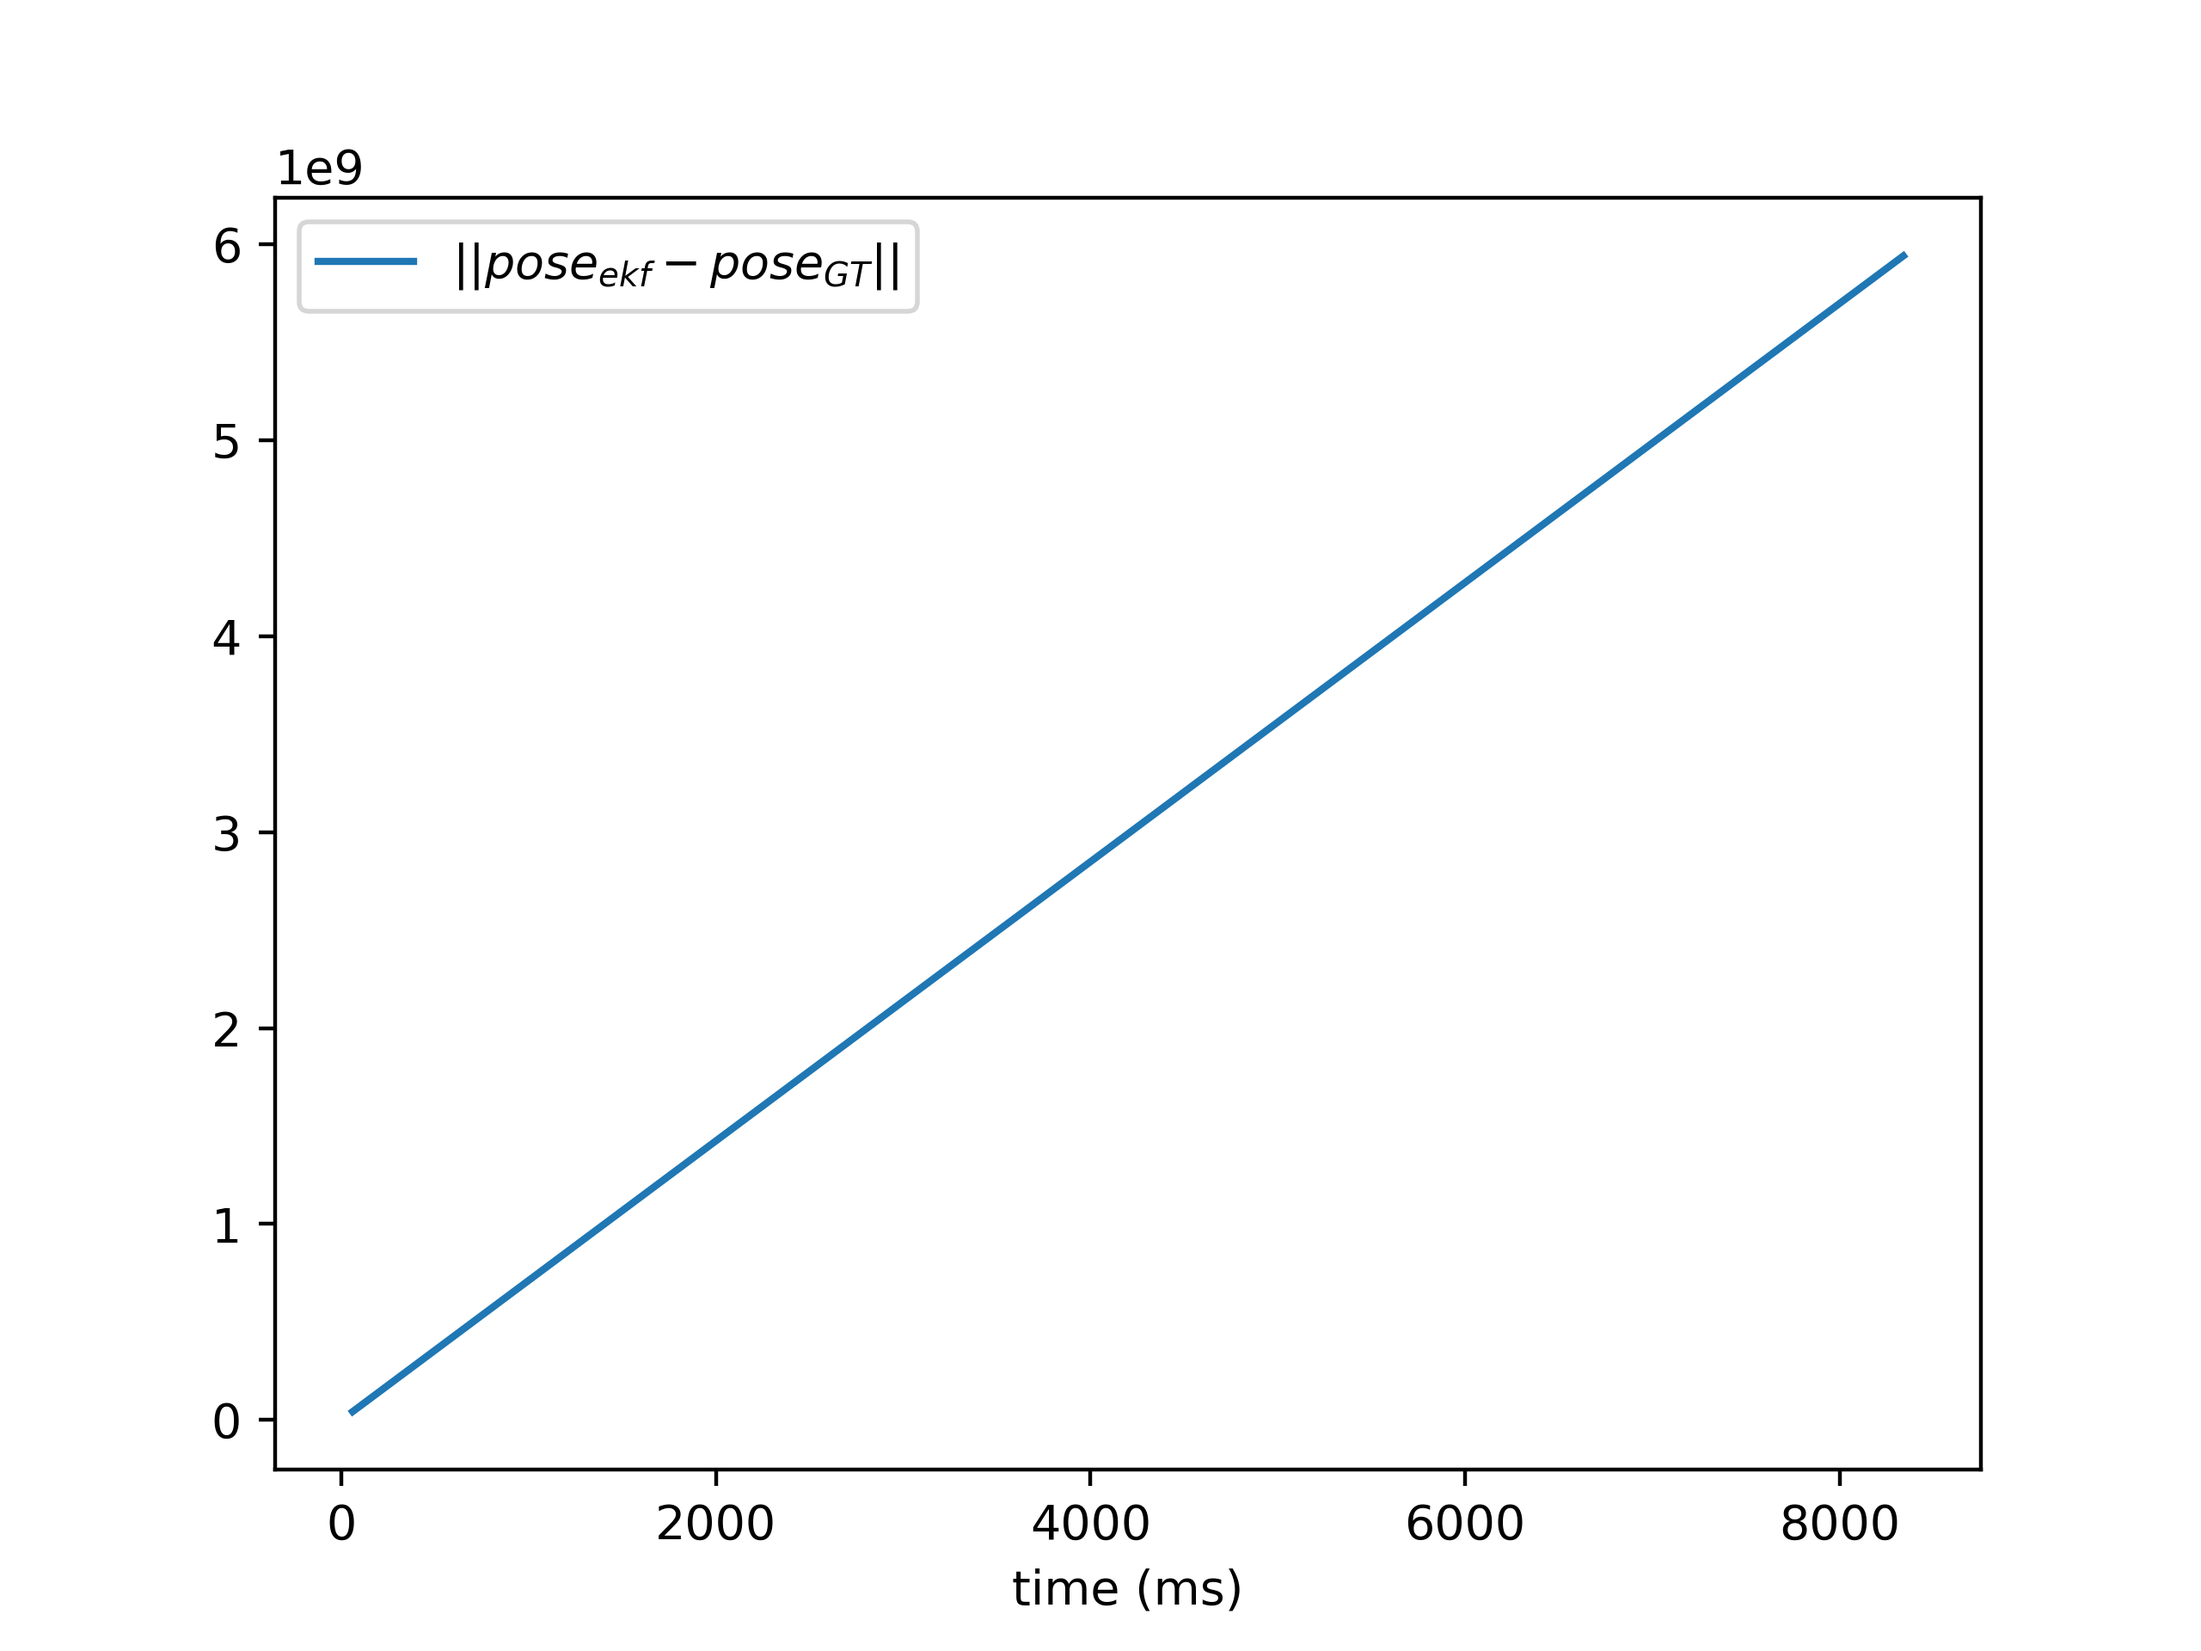
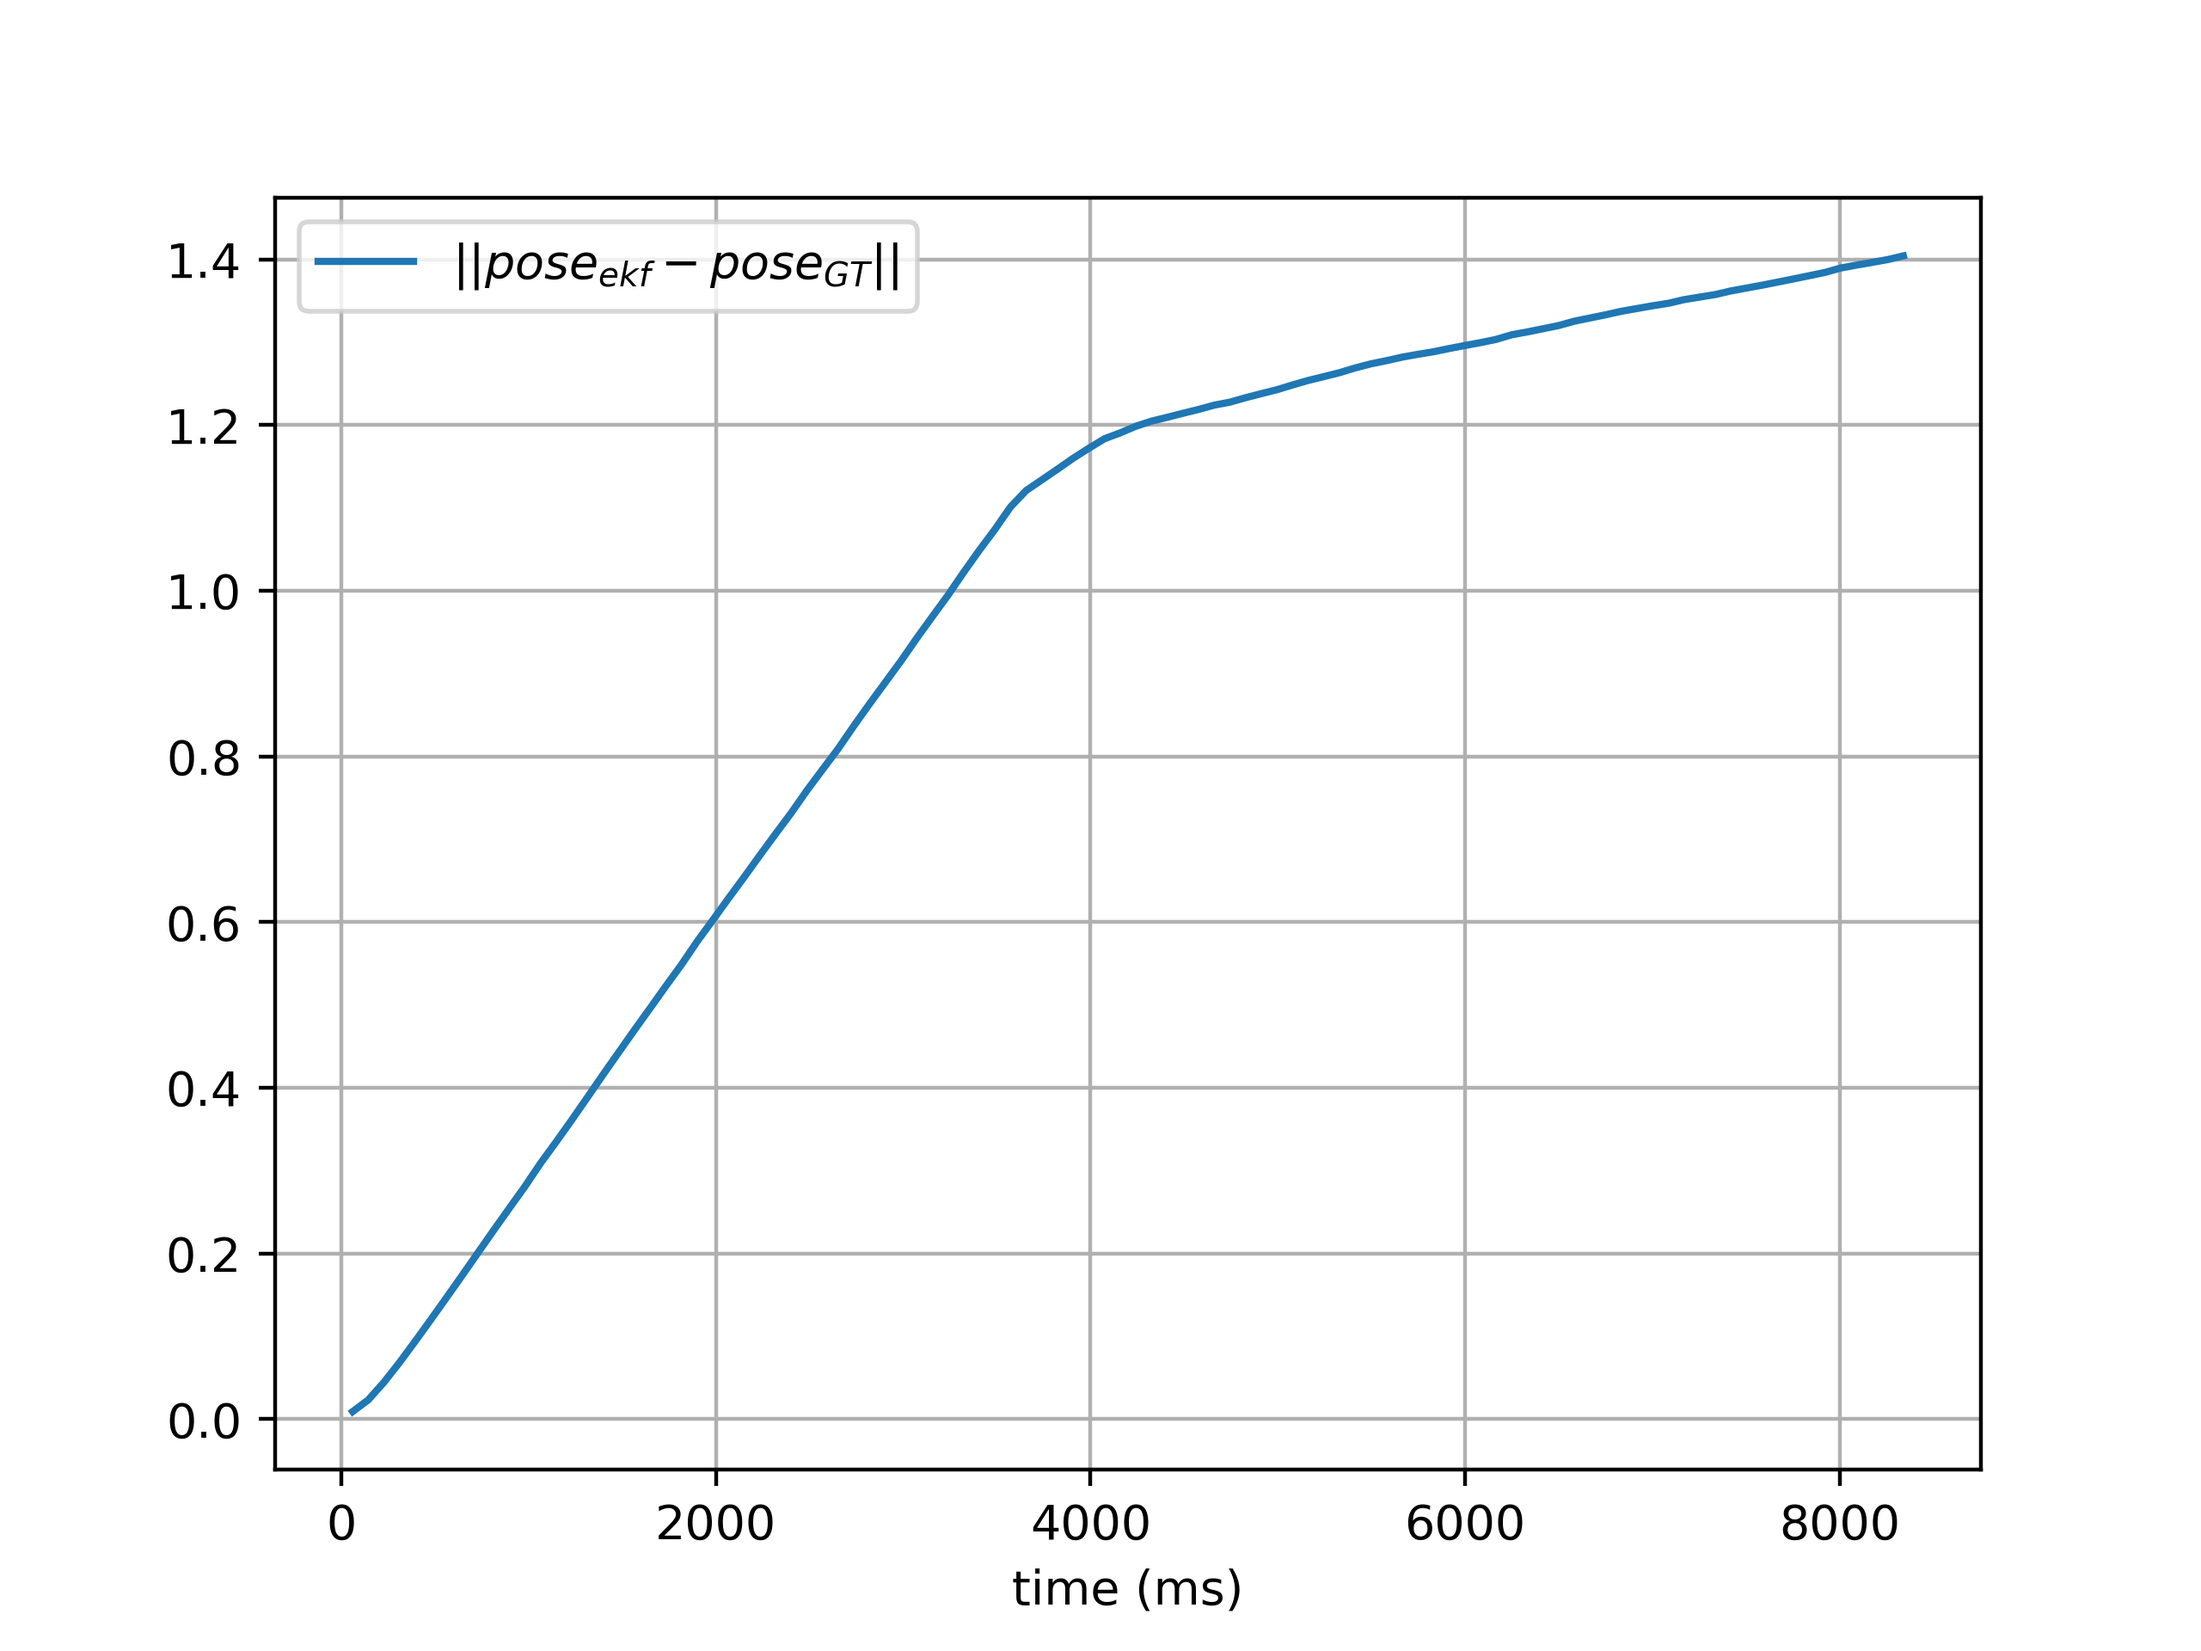
fix readme

diff --git a/sync.py b/sync.py
@@ -15,7 +15,7 @@ def interpolate(val, t, t_new):
     if not isinstance(t, np.ndarray):
         t = np.array(t)
 
-    f = interp1d(val, t, fill_value="extrapolate")
+    f = interp1d(t, val)
 
     # print(t_new.min(), t_new.max(), t.min(), t.max())
 
@@ -280,6 +280,7 @@ def aplly_EKF(args):
     plot2dcov(ekf.mu[:2], ekf.sigma[:2, :2], k=3)
     plt.legend(['EKF', 'Raw input prediction', 'Raw Encoders prediction', 'Ground truth', '3sigma iso-contour'])
     plt.axis('equal')
+    plt.grid()
     plt.savefig(plot_path_fname, dpi=400)
     plt.show()
     
@@ -300,10 +301,12 @@ def aplly_EKF(args):
     y_gt_sync = interpolate(y_gt, t_gt, t_sync)
     # print('yes ')
     plot_err_fname = os.path.join(args.folder_path_output, 'err.png')
+
     plt.figure()
     plt.plot(t_sync, np.linalg.norm(np.vstack((x_sync, y_sync)) - np.vstack((x_gt_sync, y_gt_sync)), axis=0, ord=2), '-', label=r'$||pose_{ekf} - pose_{GT}||$')
     plt.legend(loc='best')
     plt.xlabel('time (ms)')
+    plt.grid()
     plt.savefig(plot_err_fname, dpi=400)
     plt.show()
 

diff --git a/README.md b/README.md
@@ -18,7 +18,7 @@ Skoltech educational project. Performed within the [Perception in Robotics 2022]
 * then, you can use collected data from sensors and try to reconstruct poses of robot using the Kalman Filer. (You should to be in `.../perception22-akula/` directory)
 
 ```bash
-python3 sync.py -src_obs ./data/obs06.txt -src_act ./raw_data/input_log06.txt -save_to ./output
+python3 sync.py -src_obs ./data/obs07.txt -src_act ./raw_data/input_log07.txt -save_to ./output
 ````
 
 <p align="center">
